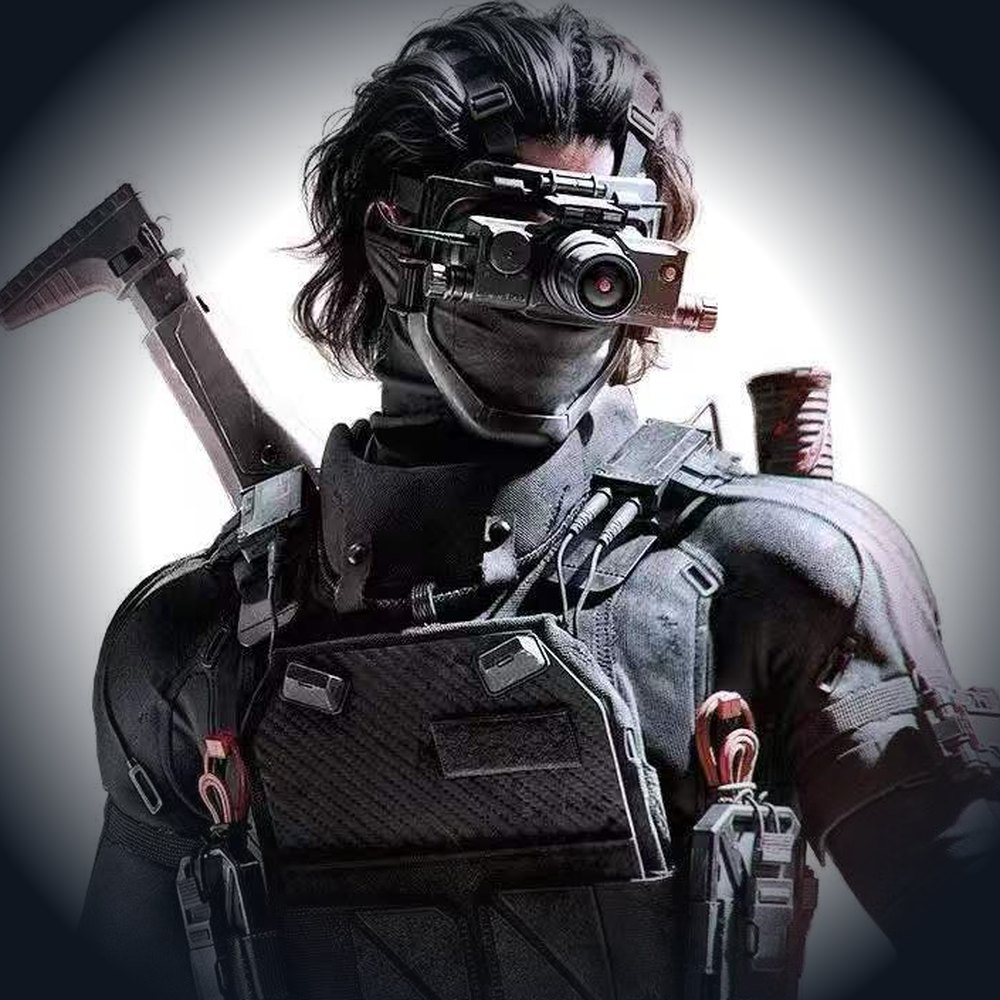
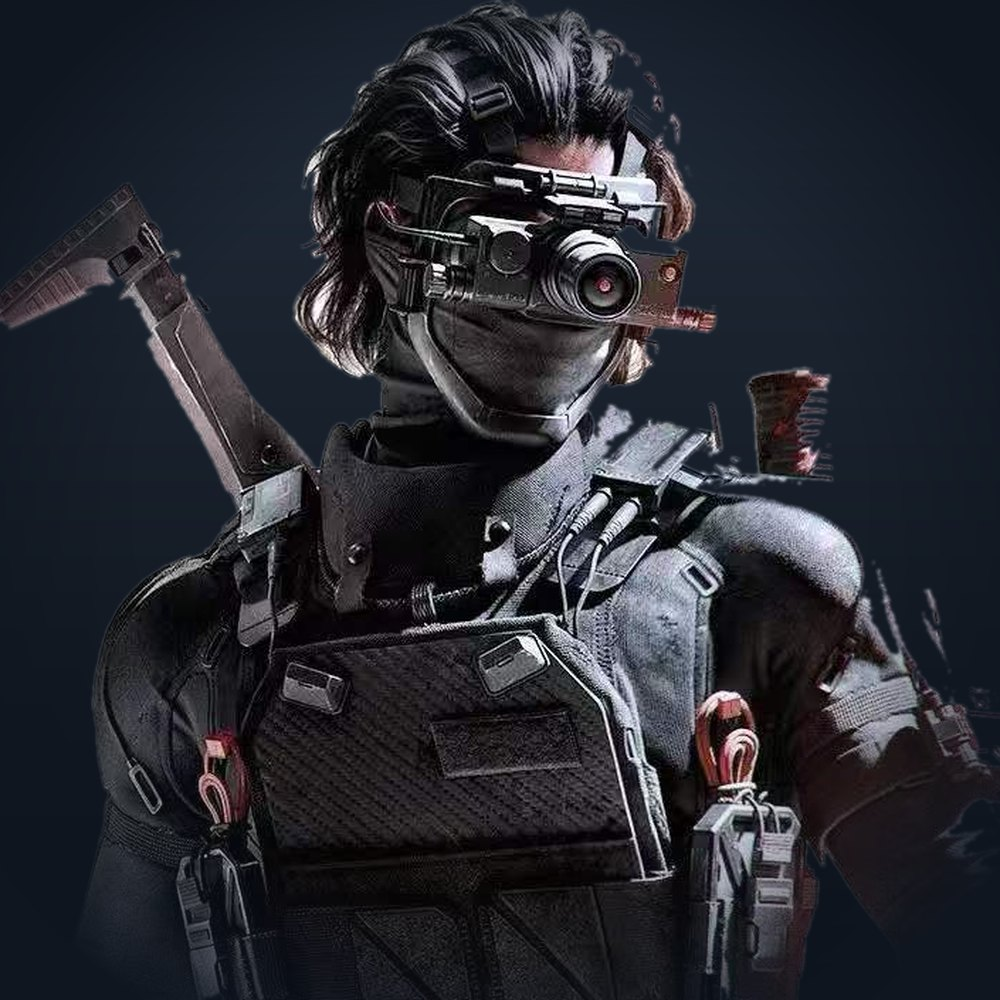
修掉头像抠底失效的 bug，换用小恐龙的真人头像
问题根因：
  Pillow 11.3 的 ImageDraw.floodfill 实际不生效（最小复现里一个像素
  都不填），所以之前 6 张白底干员立绘的背景从没被真正删掉，
  显示出来的是被暗角压暗的白背景，看着像一圈光晕。
  改用 scipy.ndimage.label 做连通域，只删「与画面四边相连的背景块」，
  人物自身的白色（白发、白衣）不会受影响。

- 12 张干员立绘全部重新抠底，白底那 6 张现在干净了
- 小恐龙换成真人照片（白底贴纸），同样流程处理成方形头像
- data.js 里小恐龙那条加 avatar 指向新图，其余人继续按名字自动分配

diff --git a/js/data.js b/js/data.js
@@ -75,7 +75,7 @@ var MEMBERS = [
   { name: '菜花',            gameId: 'HIT、菜花' },
   { name: 'MAVZ',           gameId: 'HIT、MAVZ' },
   { name: '许子远',          gameId: 'HIT、许子远' },
-  { name: '小恐龙',          gameId: 'HIT、小恐龙' },
+  { name: '小恐龙',          gameId: 'HIT、小恐龙', avatar: 'images/avatars/member-xlk.jpg' },
   { name: '小狼嗷',          gameId: 'HIT、小狼嗷' },
   { name: 'Austral1s',      gameId: 'HIT、Austral1s' },
   { name: '贩梦',            gameId: 'HIT、贩梦' },
